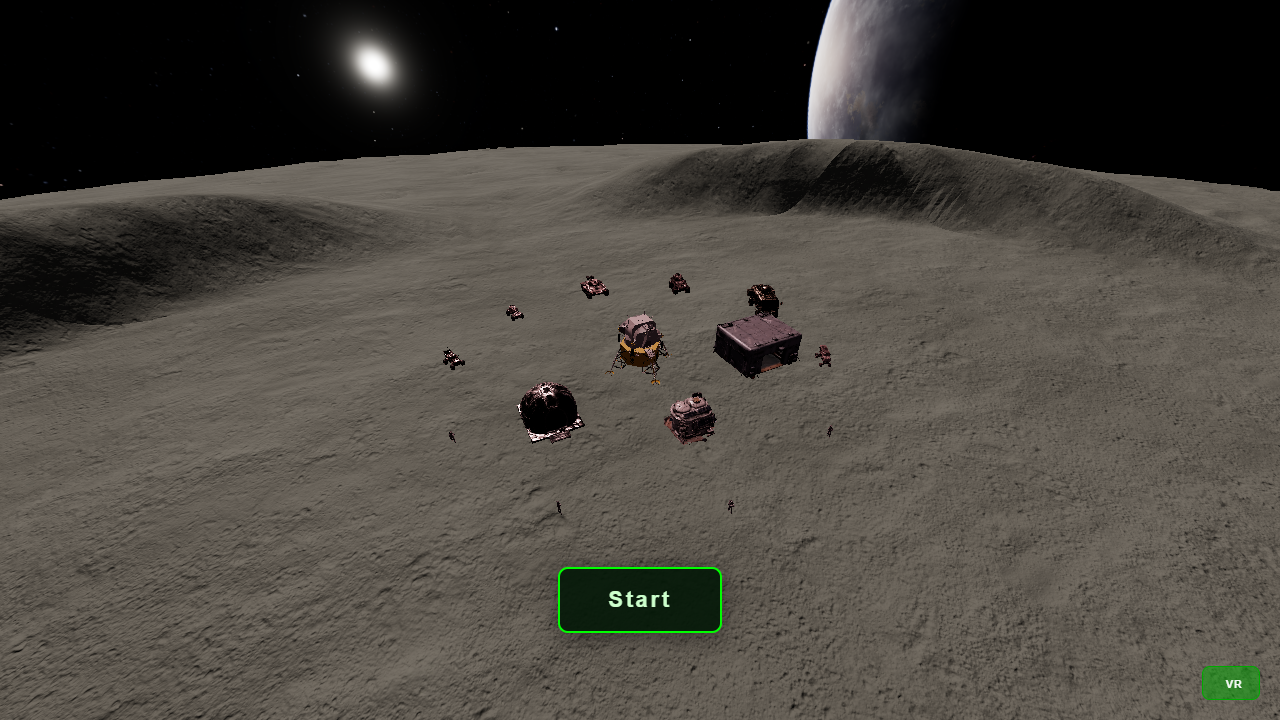
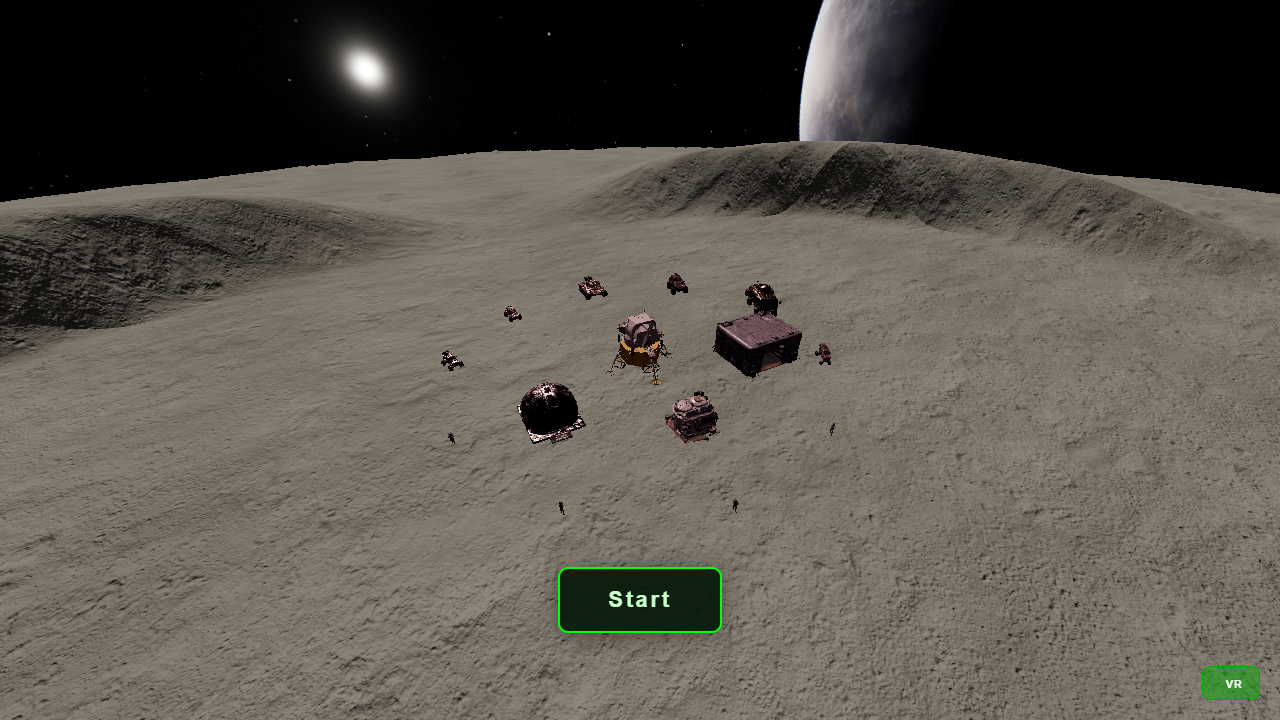
Added RTSVR4 v5.

diff --git a/webxr/RTSVR4/js/baked-moon.js b/webxr/RTSVR4/js/baked-moon.js
@@ -1,7 +1,7 @@
 /**
- * Skirmish moon *geometry* from the UE 4.27 Lightmass export.
- * Visuals are the live triplanar MeshStandard moon (same as before) — MeshBasic×LM
- * flattened the dust/normals and fought the scene sun.
+ * Skirmish moon geometry from the UE export.
+ * Surface look = live moon albedo + normal + AO under the scene sun via MeshLambert.
+ * No MeshStandard, no IBL, no triplanar, no PCF — same dust/pockmarks, cheap lighting.
  */
 import { GLTFLoader } from 'three/addons/loaders/GLTFLoader.js';
 import { MAP_TERRAIN_STYLE } from './config.js';
@@ -9,6 +9,11 @@ import { MAP_TERRAIN_STYLE } from './config.js';
 export const BAKED_SKIRMISH_GLB = 'assets/terrain/terrain-skirmish-ue-lm.glb';
 const MIN_BAKE_BYTES = 800000;
 const MIN_VERTS = 5000;
+const LIVE_MOON_DIFF = 'assets/textures/moon_01_2k/moon_01_diff_2k.jpg';
+const LIVE_MOON_NOR = 'assets/textures/moon_01_2k/moon_01_nor_gl_2k.jpg';
+const LIVE_MOON_AO = 'assets/textures/moon_01_2k/moon_01_ao_2k.jpg';
+const MOON_UV_REPEAT = 3.35;
+const MAP_PLATE_M = 200;
 
 function parseGlbJson(buf) {
   const dv = new DataView(buf);
@@ -96,14 +101,18 @@ export async function tryLoadBakedSkirmishMoon() {
   for (const src of moonMeshes) {
     keep.add(adoptMeshForAframe(src, W));
   }
-  // UE dumped (orig.x, orig.z, -orig.y). Rx(+90°) restores Y-up XZ ground.
   keep.rotation.x = Math.PI / 2;
   keep.updateMatrixWorld(true);
+
+  rewriteAlbedoUvsFromWorldXz(keep, W);
+  recomputeTangents(keep);
+  await bindCheapMoonLook(keep, W);
 
   console.log('[RTSVR4] baked moon ready', {
     bytes: buf.byteLength,
     verts,
     moonMeshes: moonMeshes.length,
+    look: 'lambert+normal',
   });
   return keep;
 }
@@ -118,10 +127,120 @@ function adoptMeshForAframe(src, W) {
   if (srcGeo.index) {
     geo.setIndex(new W.BufferAttribute(srcGeo.index.array, 1));
   }
-  const mesh = new W.Mesh(geo, new W.MeshLambertMaterial({ color: 0x5c5c60 }));
+  const mesh = new W.Mesh(geo, new W.MeshLambertMaterial({ color: 0x888888 }));
   mesh.name = src.name;
   mesh.receiveShadow = false;
   mesh.castShadow = false;
   mesh.frustumCulled = true;
   return mesh;
+}
+
+function rewriteAlbedoUvsFromWorldXz(root, W) {
+  const half = MAP_PLATE_M * 0.5;
+  const v = new W.Vector3();
+  root.updateMatrixWorld(true);
+  root.traverse((mesh) => {
+    if (!mesh.isMesh) return;
+    const pos = mesh.geometry.attributes.position;
+    let uv = mesh.geometry.attributes.uv;
+    if (!pos) return;
+    if (!uv || uv.count !== pos.count) {
+      uv = new W.BufferAttribute(new Float32Array(pos.count * 2), 2);
+      mesh.geometry.setAttribute('uv', uv);
+    }
+    for (let i = 0; i < pos.count; i++) {
+      v.fromBufferAttribute(pos, i);
+      mesh.localToWorld(v);
+      uv.setXY(i, (v.x + half) / MAP_PLATE_M, (-v.z + half) / MAP_PLATE_M);
+    }
+    uv.needsUpdate = true;
+    mesh.geometry.setAttribute('uv2', uv.clone());
+  });
+}
+
+function recomputeTangents(root) {
+  root.traverse((mesh) => {
+    if (!mesh.isMesh || !mesh.geometry?.computeTangents) return;
+    try {
+      if (!mesh.geometry.index) return;
+      mesh.geometry.computeTangents();
+    } catch (_) {
+      /* degenerate */
+    }
+  });
+}
+
+function loadMoonTex(W, url, linear) {
+  return new Promise((resolve) => {
+    const loader = new W.TextureLoader();
+    loader.setCrossOrigin('anonymous');
+    loader.load(
+      url,
+      (tex) => {
+        tex.wrapS = tex.wrapT = W.RepeatWrapping;
+        tex.repeat.set(MOON_UV_REPEAT, MOON_UV_REPEAT);
+        tex.generateMipmaps = true;
+        tex.minFilter = W.LinearMipmapLinearFilter;
+        tex.magFilter = W.LinearFilter;
+        if (linear) {
+          if ('colorSpace' in tex && W.NoColorSpace) tex.colorSpace = W.NoColorSpace;
+        } else if ('colorSpace' in tex && W.SRGBColorSpace) {
+          tex.colorSpace = W.SRGBColorSpace;
+        }
+        const sceneEl = document.querySelector('a-scene');
+        const renderer = sceneEl && sceneEl.renderer;
+        if (renderer?.capabilities?.getMaxAnisotropy) {
+          tex.anisotropy = Math.min(16, renderer.capabilities.getMaxAnisotropy());
+        }
+        if (renderer && typeof renderer.initTexture === 'function') {
+          try {
+            renderer.initTexture(tex);
+          } catch (_) {
+            /* ignore */
+          }
+        }
+        resolve(tex);
+      },
+      undefined,
+      () => resolve(null)
+    );
+  });
+}
+
+async function bindCheapMoonLook(root, W) {
+  const [diff, nor, ao] = await Promise.all([
+    loadMoonTex(W, LIVE_MOON_DIFF, false),
+    loadMoonTex(W, LIVE_MOON_NOR, true),
+    loadMoonTex(W, LIVE_MOON_AO, true),
+  ]);
+  if (!diff) {
+    console.warn('[RTSVR4] baked moon: live albedo failed');
+    return;
+  }
+  const mat = new W.MeshLambertMaterial({
+    map: diff,
+    color: 0xffffff,
+    fog: false,
+  });
+  // No IBL on Lambert — lift so the same albedo reads like the old Standard+env fill.
+  mat.color.setRGB(1.55, 1.55, 1.55);
+  if (nor) {
+    mat.normalMap = nor;
+    mat.normalScale = new W.Vector2(1, 1);
+  }
+  if (ao) {
+    mat.aoMap = ao;
+    mat.aoMapIntensity = 0.5;
+  }
+  mat.envMap = null;
+  if ('envMapIntensity' in mat) mat.envMapIntensity = 0;
+  mat.userData.cheapMoonLook = true;
+  mat.needsUpdate = true;
+
+  root.traverse((obj) => {
+    if (!obj.isMesh) return;
+    obj.material = mat;
+    obj.receiveShadow = false;
+    obj.castShadow = false;
+  });
 }

diff --git a/webxr/RTSVR4/js/epicLightmaps.js b/webxr/RTSVR4/js/epicLightmaps.js
@@ -9,7 +9,11 @@
  *  - Alpha/foliage: original MASK material; glass RGB cleared so windows aren't a black veil
  */
 /** A-Frame's THREE when present (browser). `import * as THREE from 'three'` is a second copy and makes LM invisible. */
-const THREE = globalThis.window?.THREE;
+let THREE = globalThis.window?.THREE;
+function useTHREE() {
+  if (!THREE) THREE = globalThis.window?.THREE;
+  return THREE;
+}
 
 const LOG_BLACK_POINT = 0.01858136;
 const DEFAULT_DIRECTIONALITY = 0.6;
@@ -116,7 +120,7 @@ function cloneLightmapTexture(texture, texCoord) {
   return lmTex;
 }
 
-function decodeEpicLmGlsl(mode) {
+function decodeEpicLmGlsl(mode, skipToneMap = false) {
   // Epic HQ color is an albedo multiplier (final ≈ albedo * LM).
   // Three MeshStandard does irradiance * BRDF_Lambert(albedo) = irradiance * albedo / PI,
   // so Standard path must feed irradiance = LM * PI.
@@ -152,7 +156,7 @@ function decodeEpicLmGlsl(mode) {
 				epicIntensity, epicDirectionality
 			);
 		}
-		epicLm = epicToneMapLM( epicLm, epicContrast, epicWhitePoint );
+		${skipToneMap ? '' : 'epicLm = epicToneMapLM( epicLm, epicContrast, epicWhitePoint );'}
 		${assign}
 	}`;
 }
@@ -247,7 +251,7 @@ uniform int epicHasEmissiveMap;`,
 
     const replaced = shader.fragmentShader.replace(
       /vec4\s+lightMapTexel\s*=\s*texture2D\(\s*lightMap\s*,\s*vLightMapUv\s*\)\s*;\s*reflectedLight\.indirectDiffuse\s*\+=\s*lightMapTexel\.rgb\s*\*\s*lightMapIntensity\s*\*\s*RECIPROCAL_PI\s*;/,
-      `${decodeEpicLmGlsl('basic')}
+      `${decodeEpicLmGlsl('basic', !!params.skipToneMap)}
 		vec3 em = epicEmissive * epicEmissiveIntensity;
 		if ( epicHasEmissiveMap == 1 ) {
 			#if defined( USE_MAP )
@@ -277,7 +281,7 @@ uniform int epicHasEmissiveMap;`,
   };
 
   mat.customProgramCacheKey = () =>
-    `epicBasicKeep2|ch${texCoord}|f${params.flipMode}|d${params.debugMode}|i${params.intensity}|c${params.contrast}|w${params.whitePoint}`;
+    `epicBasicKeep2|ch${texCoord}|f${params.flipMode}|d${params.debugMode}|i${params.intensity}|c${params.contrast}|w${params.whitePoint}|t${params.skipToneMap ? 0 : 1}`;
   mat.needsUpdate = true;
   return mat;
 }
@@ -483,6 +487,10 @@ export function balanceRealtimeLights(root, opts = {}) {
 }
 
 export async function applyEpicLightmaps(gltf, opts = {}) {
+  if (!useTHREE()) {
+    console.warn('applyEpicLightmaps: no A-Frame THREE');
+    return { applied: 0 };
+  }
   const intensity = opts.intensity ?? 1.15;
   const directionality = opts.directionality ?? DEFAULT_DIRECTIONALITY;
   const contrast = opts.contrast ?? 1.35;
@@ -491,6 +499,7 @@ export async function applyEpicLightmaps(gltf, opts = {}) {
   const debugMode = opts.debugMode ?? 0;
   const forceTexCoord = opts.forceTexCoord ?? null;
   const envMapIntensity = opts.envMapIntensity ?? 1.0;
+  const skipToneMap = !!opts.skipToneMap;
   const parser = gltf.parser;
   const json = parser.json;
   const lightmaps = json.extensions?.EPIC_lightmap_textures?.lightmaps;
@@ -559,6 +568,7 @@ export async function applyEpicLightmaps(gltf, opts = {}) {
         flipMode,
         debugMode,
         envMapIntensity,
+        skipToneMap,
         meshLabel: `${mesh.name || ''} ${mesh.parent?.name || ''}`,
       };
 
@@ -592,6 +602,7 @@ export async function applyEpicLightmaps(gltf, opts = {}) {
           contrast,
           whitePoint,
           envMapIntensity,
+          skipToneMap ? 'nt' : 'tm',
           needsAlphaPreserve(src) ? 'a' : 'o',
         ].join('|');
         if (matCache.has(key)) return matCache.get(key);

diff --git a/webxr/RTSVR4/js/moon-environment.js b/webxr/RTSVR4/js/moon-environment.js
@@ -1958,19 +1958,6 @@ async function createBattleMoonMaterial(THREE, sceneEl) {
   return material;
 }
 
-/** Same dust/normals as live moon, on baked plate+skirts. No PCF receive (Quest fill). */
-async function applyBattleMoonToBakedGroup(THREE, sceneEl, root) {
-  const material = await createBattleMoonMaterial(THREE, sceneEl);
-  if (!material) return false;
-  root.traverse((obj) => {
-    if (!obj.isMesh) return;
-    obj.material = material;
-    obj.receiveShadow = false;
-    obj.castShadow = false;
-  });
-  return true;
-}
-
 function applyBattleMoon(THREE, sceneEl, mesh) {
   return new Promise((resolve) => {
     if (installMoonSlopeDebugMaterialIfActive(THREE, sceneEl, mesh)) {
@@ -2036,7 +2023,6 @@ export async function applyMoonBattlefieldVisuals(sceneEl) {
   const baked = await tryLoadBakedSkirmishMoon();
   if (baked) {
     groundEl.setObject3D('mesh', baked);
-    await applyBattleMoonToBakedGroup(THREE, sceneEl, baked);
     configureTerrainPresentation(sceneEl);
     styleMoonGrid();
     const gridMount = document.getElementById('gridHelper');
@@ -2091,7 +2077,6 @@ export async function rebuildMoonBattlefield(sceneEl) {
   const baked = await tryLoadBakedSkirmishMoon();
   if (baked) {
     groundEl.setObject3D('mesh', baked);
-    await applyBattleMoonToBakedGroup(THREE, sceneEl, baked);
     configureTerrainPresentation(sceneEl);
     syncTerrainGridHelperSize();
     return;

diff --git a/webxr/RTSVR4/index.html b/webxr/RTSVR4/index.html
@@ -6,7 +6,7 @@
   <title>RTS VR IV — Real-Time Strategy in Virtual Reality</title>
   <meta name="description" content="A multiplayer VR real-time strategy game with resource harvesting, unit production, and tactical combat. Built with A-Frame and WebXR.">
   <!-- Bump content when shipping a new build (shown on wrist + desktop HUD for debugging). -->
-  <meta name="rts-version" content="0.4.50">
+  <meta name="rts-version" content="0.4.53">
 
   <script type="importmap">
   {
